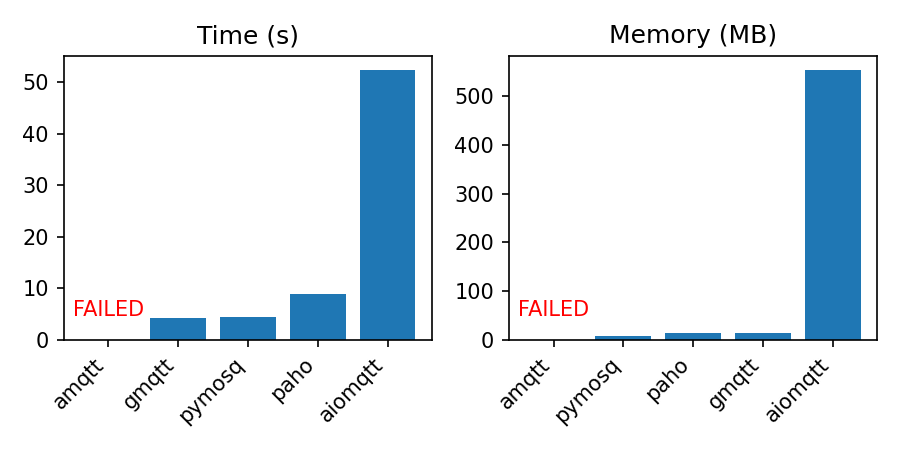
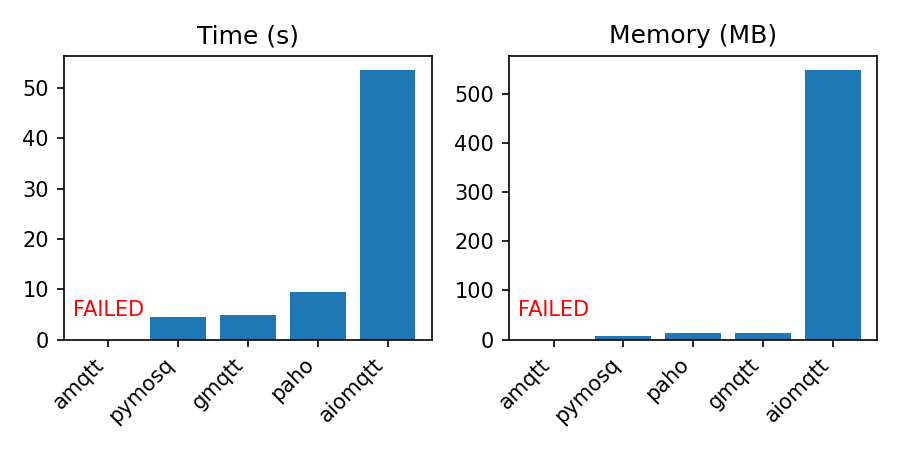
update tests; other minimal updates

diff --git a/pymosquitto/client.py b/pymosquitto/client.py
@@ -27,8 +27,6 @@ class UserCallback:
 
     def __set__(self, obj, func):
         setattr(obj, self.callback_name, func)
-        if obj._logger:
-            obj._logger.debug("CALLBACK: %s %s", self.callback_name, func)
 
 
 class MQTTClient(Mosquitto):
@@ -56,11 +54,7 @@ class MQTTClient(Mosquitto):
 
     def _call(self, func, *args, use_errno=False):
         if self._logger:
-            self._logger.debug(
-                "C call: %s%s",
-                func.__name__,
-                (self._c_mosq_p,) + args,
-            )
+            self._logger.debug("CALL: %s%s", func.__name__, (self._c_mosq_p,) + args)
         super()._call(func, *args, use_errno=use_errno)
 
     def _set_default_callbacks(self):
@@ -101,24 +95,22 @@ class MQTTClient(Mosquitto):
 
         super().loop_forever(timeout)
 
-    def add_topic_handler(self, topic, func):
+    def on_topic(self, topic, func=None):
+        if func is None:
+
+            def decorator(func):
+                self.on_topic(topic, func)
+                return func
+
+            return decorator
+
         if self._handlers is None:
             self._handlers = self._handlers_factory()
         self._handlers[topic] = func
-        if self._logger:
-            self._logger.debug("HANDLER: %s %s", topic, func)
+        return None
 
-    def remove_topic_handler(self, topic):
+    def on_topic_remove(self, topic):
         del self._handlers[topic]
-        if self._logger:
-            self._logger.debug("HANDLER_DEL: %s", topic)
-
-    def on_topic(self, topic):
-        def decorator(func):
-            self.add_topic_handler(topic, func)
-            return func
-
-        return decorator
 
     @staticmethod
     def _handlers_factory():

diff --git a/tests/test_client.py b/tests/test_client.py
@@ -24,7 +24,7 @@ def client_factory():
 def client():
     def _on_connect(client, userdata, rc):
         if rc != c.ConnackCode.ACCEPTED:
-            raise RuntimeError(f"Client connection error: {rc}")
+            raise RuntimeError(f"Client connection error: {rc.value}/{rc.name}")
         is_connected.set()
 
     client = client_factory()
@@ -95,18 +95,23 @@ def test_on_topic(client):
         is_sub.set()
 
     def _on_topic(client, userdata, message):
-        userdata.message = message
-        is_recv.set()
+        with is_recv:
+            messages.append(message)
+            is_recv.notify_all()
 
     is_sub = threading.Event()
-    is_recv = threading.Event()
+    is_recv = threading.Condition()
+    messages = []
     client.on_subscribe = _on_sub
-    client.add_topic_handler("test/me/#", _on_topic)
+    client.on_topic("test/+/+", _on_topic)
     client.subscribe("test/#", 1)
 
     assert is_sub.wait(1)
-    client.publish("test/notme", "123", qos=1)
-    client.publish("test/me/one", "333", qos=1)
+    client.publish("test/3", "333", qos=1)
+    client.publish("test/1/one", "111", qos=1)
+    client.publish("test/2/me", "222", qos=1)
 
-    assert is_recv.wait(1)
-    assert client.userdata.message.payload == b"333"
+    with is_recv:
+        if not is_recv.wait_for(lambda: len(messages) == 2, timeout=1):
+            raise TimeoutError
+    assert {m.payload for m in messages} == {b"111", b"222"}

diff --git a/make_plot.py b/make_plot.py
@@ -3,7 +3,7 @@ from datetime import datetime
 
 import matplotlib.pyplot as plt
 
-PYTHON_RSS = 10400
+PYTHON_RSS = 10200
 
 LOSERS = {"aiomqtt", "amqtt"}
 

diff --git a/README.md b/README.md
@@ -38,7 +38,7 @@ Check out more examples in `tests/test_client.py`.
 
 Receiving 1 million messages with QoS 0.
 
-*The memory plots exclude the Python interpreter overhead (~10.4 MB).
+*The memory plots exclude the Python interpreter overhead (~10.2 MB).
 
 ![benchmark-results](./results.png)
 
@@ -50,11 +50,11 @@ Losers excluded:
 
 ```text
 Module;Time;RSS
-pymosq;0:05.45;17724
-paho;0:09.73;23252
-aiomqtt;0:54.16;578064
+pymosq;0:04.42;17384
+paho;0:09.50;23048
+gmqtt;0:04.83;24848
+aiomqtt;0:53.68;573284
 amqtt;0;0
-gmqtt;0:04.51;25152
 ```
 
 
